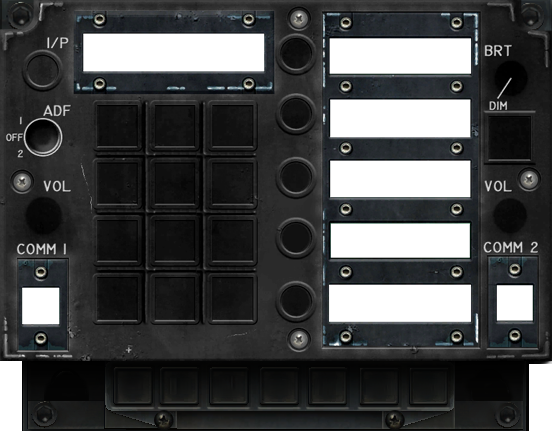
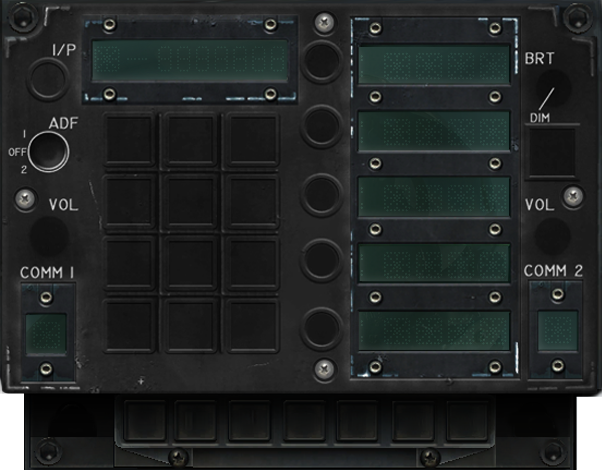
Tidy scruffy UFC backplate, remove an old copy of it, and re-enable the M2000 Simple interface

diff --git a/Helios/Gauges/FA-18C/UFC/UFC.cs b/Helios/Gauges/FA-18C/UFC/UFC.cs
@@ -30,7 +30,6 @@ namespace GadrocsWorkshop.Helios.Gauges.FA18C
         private Rect _scaledScreenRect = SCREEN_RECT;
         private string _interfaceDeviceName = "UFC";
         private String _font = "MS 33558";
-        //private String _font = "Franklin Gothic";
         public UFC_FA18C()
             : base("UFC", new Size(602, 470))
         {
@@ -90,7 +89,7 @@ namespace GadrocsWorkshop.Helios.Gauges.FA18C
 
         public override string BezelImage
         {
-            get { return "{Helios}/Gauges/FA-18C/UFC/UFC Faceplate.png"; }
+            get { return "{Helios}/Images/FA-18C/UFC Faceplate.png"; }
         }
 
         private void AddPot(string name, Point posn, Size size, string interfaceElementName)

diff --git a/Helios/Interfaces/DCS/M2000CSimple/M2000CSimpleInterface.cs b/Helios/Interfaces/DCS/M2000CSimple/M2000CSimpleInterface.cs
@@ -22,7 +22,7 @@ namespace GadrocsWorkshop.Helios.Interfaces.DCS.M2000CSimple
     using Microsoft.Win32;
     using System;
 
-    //[HeliosInterface("Helios.M2000CSimple", "DCS M2000C (Simple)", typeof(M2000CSimpleInterfaceEditor), typeof(UniqueHeliosInterfaceFactory))]
+    [HeliosInterface("Helios.M2000CSimple", "DCS M2000C (Simple)", typeof(M2000CSimpleInterfaceEditor), typeof(UniqueHeliosInterfaceFactory))]
     public class M2000CSimpleInterface : BaseUDPInterface
     {
         private string _dcsPath;
